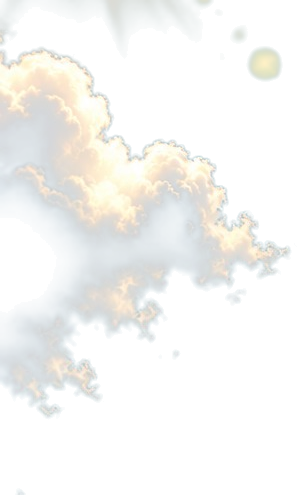
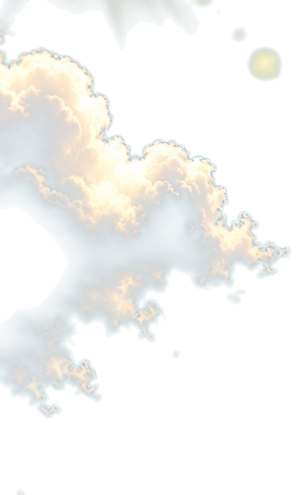
Add files via upload

diff --git a/cloud-polish.css b/cloud-polish.css
@@ -1,0 +1,77 @@
+
+/* WozzaWorld photographic cloud polish v2
+   Apply AFTER the real-transparent-clouds hotfix.
+   Focus: cleaner masks, shorter drift, stronger parallax, less milky foreground. */
+
+/* FAR: barely moving, relatively sharp. */
+.launch-splash>.splash-cloud-bank::before{
+  width:57vw!important;
+  height:28vh!important;
+  right:-13vw!important;
+  top:11vh!important;
+  opacity:.48!important;
+  filter:blur(.25px)!important;
+  animation:wwFarPolish 4.1s ease-in-out both!important;
+}
+@keyframes wwFarPolish{
+  from{transform:translate3d(0,0,0) scale(.95)}
+  to{transform:translate3d(-1.8vw,.25vh,0) scale(.958)}
+}
+
+/* MID: restrained drift, softer than far layer. */
+.launch-splash>.splash-cloud-bank::after{
+  width:83vw!important;
+  height:42vh!important;
+  left:-29vw!important;
+  top:27vh!important;
+  opacity:.56!important;
+  filter:blur(1.7px)!important;
+  animation:wwMidPolish 3.65s ease-in-out both!important;
+}
+@keyframes wwMidPolish{
+  from{transform:translate3d(0,.3vh,0) scale(1)}
+  to{transform:translate3d(3.6vw,-.25vh,0) scale(1.012)}
+}
+
+/* NEAR: still deliberately defocused, but no longer a milky fog bank. */
+.launch-splash::after{
+  width:126vw!important;
+  height:45vh!important;
+  left:-49vw!important;
+  bottom:-14vh!important;
+  opacity:.49!important;
+  filter:blur(4.6px)!important;
+  animation:wwNearPolish 3.15s ease-in-out both!important;
+}
+@keyframes wwNearPolish{
+  from{transform:translate3d(0,1vh,0) scale(1.075)}
+  to{transform:translate3d(6vw,-.45vh,0) scale(1.095)}
+}
+
+/* A second distant presence, using the cleaned far photographic cloud asset.
+   It remains behind the logo and is deliberately subtle. */
+.launch-splash>.splash-cloud-bank{
+  background:
+    url("cloud-far.png") -20vw 4vh / 45vw auto no-repeat!important;
+  animation:wwBankFarEcho 4.2s ease-in-out both!important;
+}
+@keyframes wwBankFarEcho{
+  from{background-position:-20vw 4vh}
+  to{background-position:-18.5vw 4.2vh}
+}
+
+@media(max-width:600px){
+  .launch-splash>.splash-cloud-bank::before{width:66vw!important;right:-19vw!important}
+  .launch-splash>.splash-cloud-bank::after{width:94vw!important;left:-38vw!important}
+  .launch-splash::after{width:137vw!important;left:-57vw!important}
+  .launch-splash>.splash-cloud-bank{
+    background-size:53vw auto!important;
+    background-position:-25vw 5vh!important;
+  }
+}
+@media(prefers-reduced-motion:reduce){
+  .launch-splash>.splash-cloud-bank{animation:none!important}
+  .launch-splash>.splash-cloud-bank::before,
+  .launch-splash>.splash-cloud-bank::after,
+  .launch-splash::after{animation:none!important}
+}
